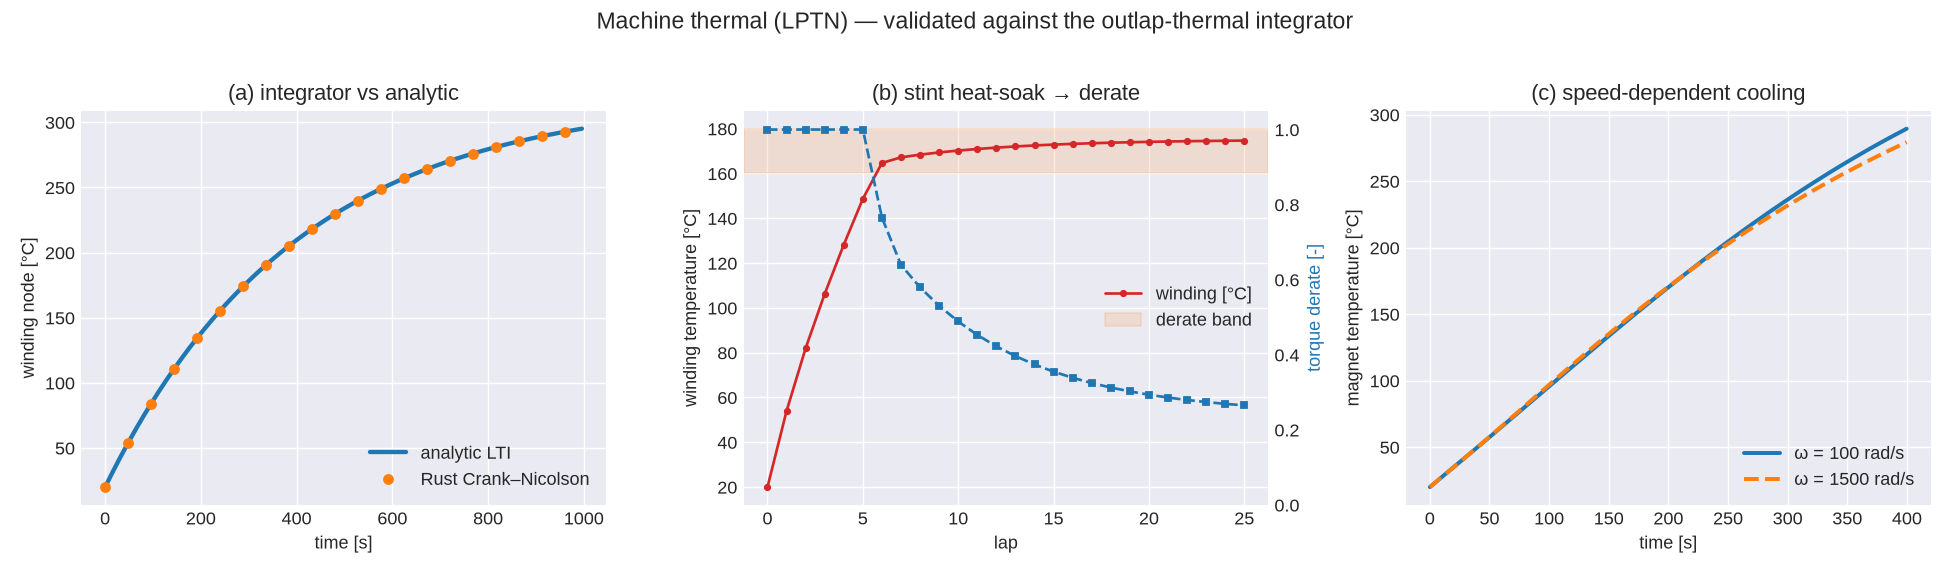
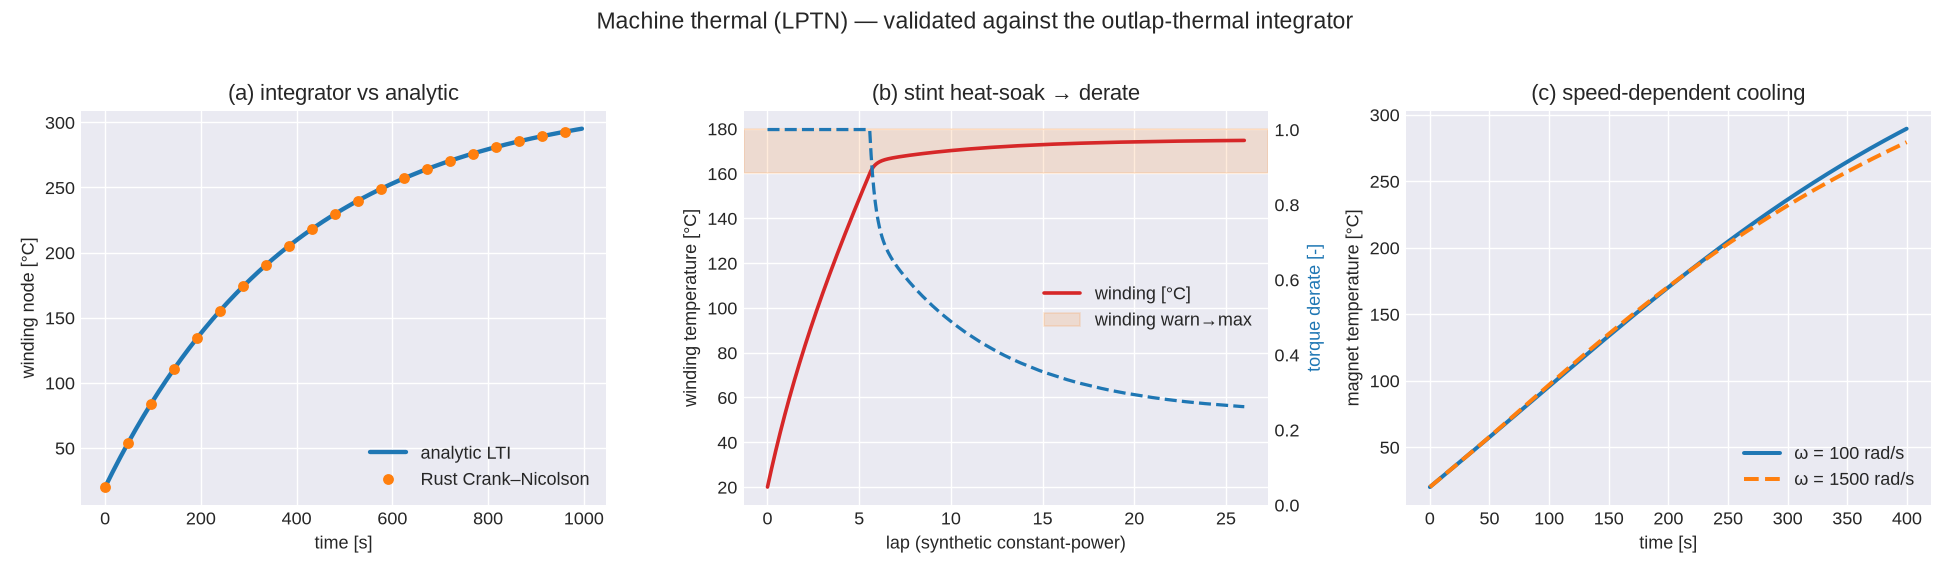
docs(thermal): in-lap resolution + honest labelling on the stint panel
Emit the stint trace at sub-lap resolution (fractional-lap x) so the winding
heat-soak and the derate roll-off are visible continuously rather than one point
per lap. Label panel (b) 'synthetic constant-power' — it is a thermal stress
test at constant injected power (loss = base*derate), not a lap on any vehicle
or circuit (per-segment loss from a real T1 lap is PR7/PR8). The winding node
binds the derate throughout; the rotor stays below its limit.

diff --git a/crates/outlap-qss/examples/thermal_traces.rs b/crates/outlap-qss/examples/thermal_traces.rs
@@ -34,6 +34,7 @@ fn none(_: &str) -> Option<f64> {
     None
 }
 
+#[allow(clippy::too_many_lines)] // one linear trace-emitting script; splitting it hurts clarity.
 fn main() {
     let cond = Conditions::default();
     println!(
@@ -92,17 +93,26 @@ fn main() {
     )
     .expect("rear assembles");
     let base = 3000.0;
+    let steps_per_lap = 200;
     for lap in 0..26 {
-        println!(
-            "stint,{lap},{:.3},{:.4}",
-            rear.temp_c("winding").unwrap(),
-            rear.derate()
-        );
-        for _ in 0..200 {
+        for step in 0..steps_per_lap {
+            if step % 5 == 0 {
+                let frac = f64::from(lap) + f64::from(step) / f64::from(steps_per_lap);
+                println!(
+                    "stint,{frac:.4},{:.3},{:.4}",
+                    rear.temp_c("winding").unwrap(),
+                    rear.derate()
+                );
+            }
             let d = rear.derate();
             rear.step(base * d, none, 800.0, 1.0).expect("stint step");
         }
     }
+    println!(
+        "stint,26.0000,{:.3},{:.4}",
+        rear.temp_c("winding").unwrap(),
+        rear.derate()
+    );
 
     // --- (c) Speed-dependent air-gap cooling: the detailed pdt_synth network at two shaft speeds.
     // Per-component losses drive the magnet, whose only escape is the (speed-dependent) air-gap film.

diff --git a/python/tools/plot_machine_thermal.py b/python/tools/plot_machine_thermal.py
@@ -65,16 +65,21 @@ def main() -> None:
     ax.set(xlabel="time [s]", ylabel="winding node [°C]", title="(a) integrator vs analytic")
     ax.legend(loc="lower right")
 
-    # (b) Stint on rear.emotor.yaml: winding temperature + torque derate.
+    # (b) Synthetic constant-power stint on rear.emotor.yaml, at in-lap resolution: the winding
+    # temperature and the torque derate that closes the loop (loss = base·derate).
     laps = [r[0] for r in rows["stint"]]
     wind = [r[1] for r in rows["stint"]]
     der = [r[2] for r in rows["stint"]]
     ax = axes[1]
-    ax.plot(laps, wind, "-o", ms=3, color="tab:red", label="winding [°C]")
-    ax.axhspan(160, 180, color="tab:orange", alpha=0.15, label="derate band")
-    ax.set(xlabel="lap", ylabel="winding temperature [°C]", title="(b) stint heat-soak → derate")
+    ax.plot(laps, wind, "-", lw=2.0, color="tab:red", label="winding [°C]")
+    ax.axhspan(160, 180, color="tab:orange", alpha=0.15, label="winding warn→max")
+    ax.set(
+        xlabel="lap (synthetic constant-power)",
+        ylabel="winding temperature [°C]",
+        title="(b) stint heat-soak → derate",
+    )
     ax2 = ax.twinx()
-    ax2.plot(laps, der, "--s", ms=3, color="tab:blue", label="derate")
+    ax2.plot(laps, der, "--", lw=1.8, color="tab:blue", label="derate")
     ax2.set_ylabel("torque derate [-]", color="tab:blue")
     ax2.set_ylim(0.0, 1.05)
     ax2.grid(False)